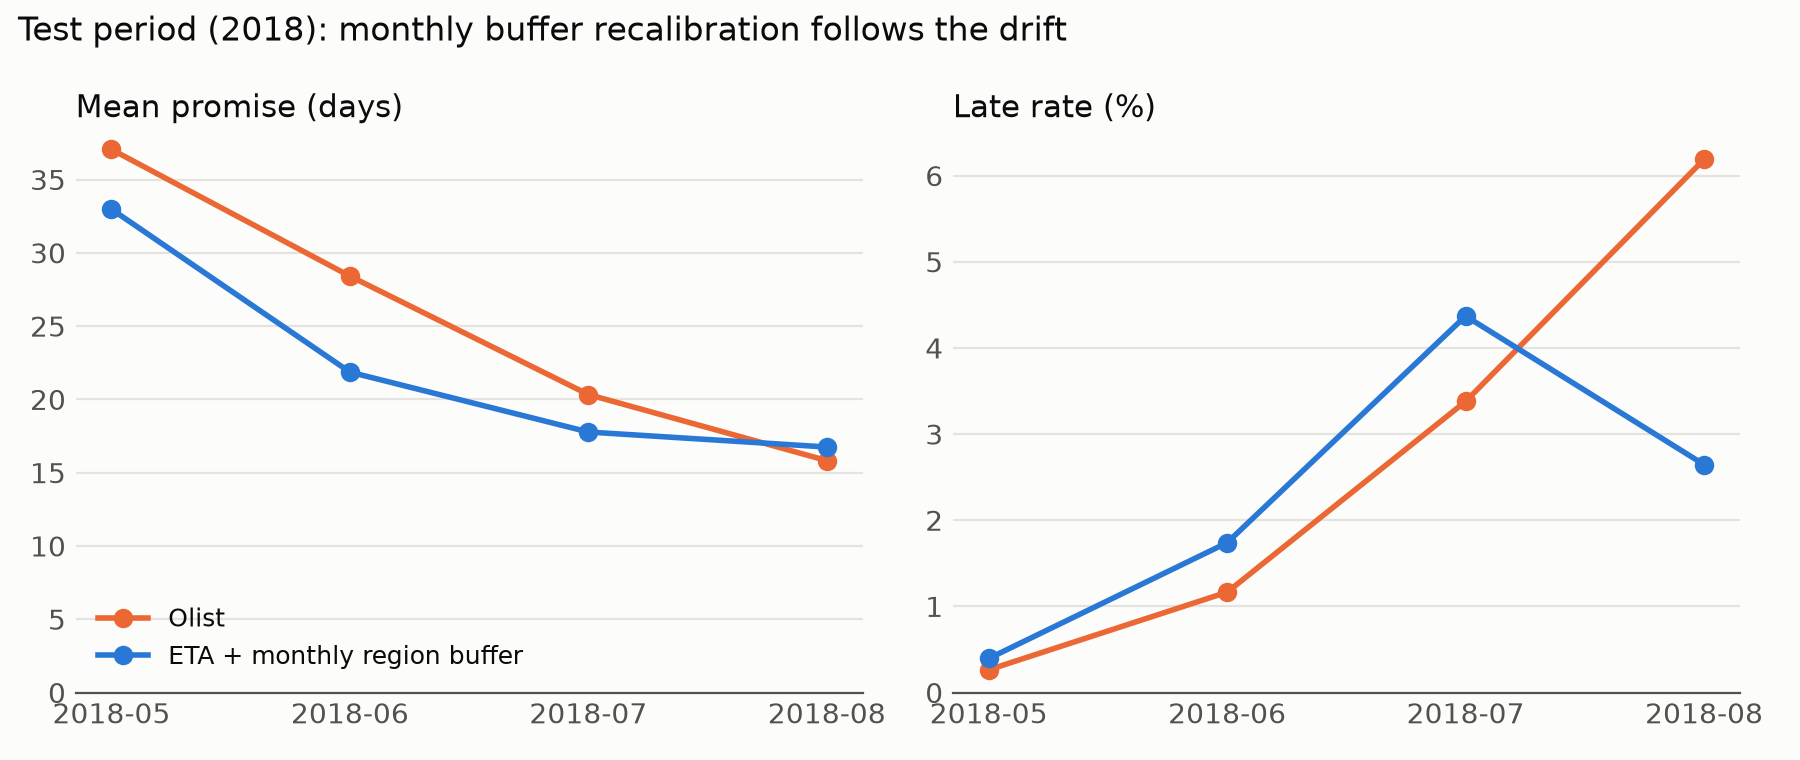
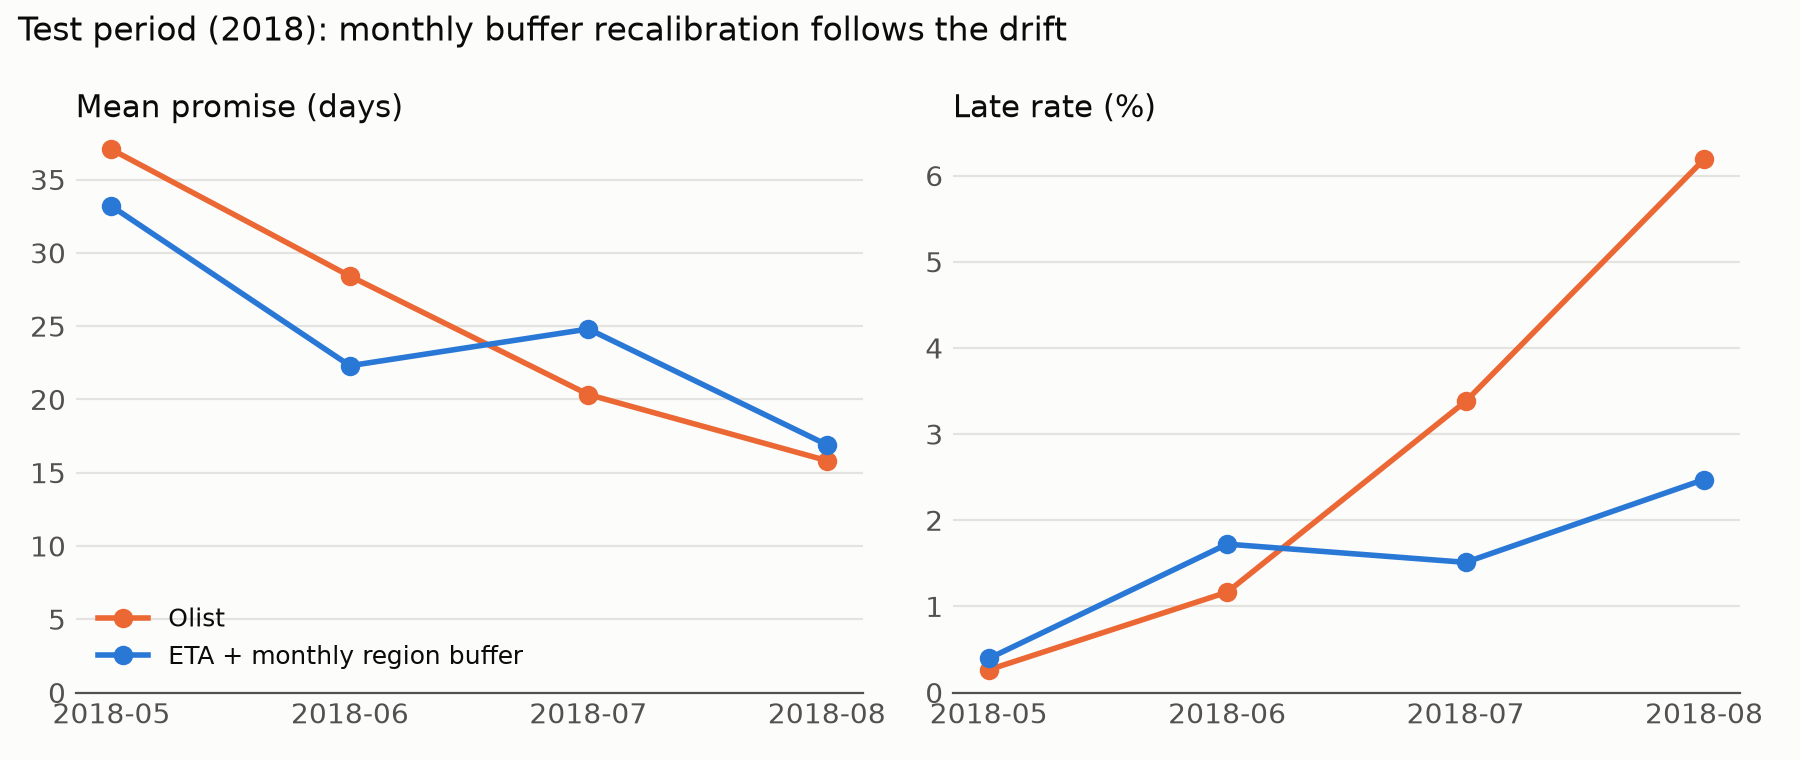
Fix checkout promise cohorts missing slow pre-cutoff orders; use alpha=100
Orders bought before the test cutoff but delivered after it (split
unavailable_at_cutoff) were left out of the monthly M-2 cohorts. About
1,900 slow May orders were missing from July's cohort, so July's buffer
was 4.1 days instead of 11.2 and promises came out too short.

With the fix, a 3.5% target gives 21.8 days and 1.8% late on test (Olist
22.1 days, 3.5%). Read off the target sweep, the policy reaches Olist's
late rate at 18.6 days, or half Olist's late rate at Olist's length.
Threshold rules are now compared with replace-all at the same late rate.
The experiment uses the selected Phase 2 ridge alpha=100.

diff --git a/src/experiments/checkout_promise/run.py b/src/experiments/checkout_promise/run.py
@@ -1,7 +1,7 @@
 """Checkout ETA -> promised date: what the checkout regression is worth as a promise-setting tool.
 
 Run from the repository root with ``python src/experiments/checkout_promise/run.py``.
-The ETA is the ridge (alpha=1000) checkout model without promised_days and promise_slack, so the promise it
+The ETA is the ridge (alpha=100) checkout model, the selected Phase 2 setting, without promised_days and promise_slack, so the promise it
 produces does not reuse Olist's promise. A promise is ceil(ETA + buffer), where the buffer is a quantile of
 recent residuals (actual calendar days - ETA). Outputs go to data/outputs/experiments/checkout_promise/.
 
@@ -26,7 +26,7 @@ from olist.paths import EXPERIMENT_OUTPUTS, RAW_DIR, REPO_ROOT  # noqa: E402
 from olist.regression import make_regression_pipeline  # noqa: E402
 
 HERE = EXPERIMENT_OUTPUTS / "checkout_promise"
-ALPHA = 1000.0
+ALPHA = 100.0
 PROMISE_FEATURES = ("promised_days", "promise_slack")
 MIN_GROUP = 100           # monthly cohort orders a group needs for its own quantile
 REGION = {**{s: "N" for s in "AC AP AM PA RO RR TO".split()},
@@ -88,8 +88,12 @@ def predict_all(t, spec):
     val = val[val.window.ge(0)]
     # Orders purchased after the last validation window and before the test cutoff: fitted only on outcomes
     # known when the gap starts, so the monthly cohorts that straddle it carry honest residuals.
+    # Orders bought before the test cutoff but delivered after it are outside the primary training split, yet
+    # many were delivered before a later month starts. They are the slow ones, so leaving them out of the
+    # monthly cohorts would shrink those buffers (about 1,900 May orders for July's buffer).
     gap_start = val.order_purchase_timestamp.max()
-    gap = train[train.order_purchase_timestamp > gap_start].copy()
+    late_outcome = t[t.split.eq("unavailable_at_cutoff")]
+    gap = pd.concat([train[train.order_purchase_timestamp > gap_start], late_outcome], ignore_index=True)
     known = train[train.outcome_available_at < gap_start]
     gap["eta"] = ridge(spec, noprom).fit(known[noprom], known[y]).predict(gap[noprom])
     test = t[t.split.eq("test")].copy()
@@ -383,7 +387,7 @@ def drift_gauge(d):
 
 
 def handover_gauge(spec):
-    """Evidence 6: checkout vs handover residuals on the handover cohort (both ridge alpha=1000)."""
+    """Evidence 6: checkout vs handover residuals on the handover cohort (both ridge alpha=100)."""
     from olist.eta import TARGET, chronological_folds, fit_predict, load_stage_table, stage_spec
     table, s, _ = load_stage_table(REPO_ROOT)
     s.setdefault("random_state", 42)
@@ -421,11 +425,15 @@ def replace_vs_threshold(d, target=0.035):
              "min(Olist, ours)": diff < 0, "max(Olist, ours)": diff > 0,
              "Lengthen all, shorten only if >=5 days shorter": (diff > 0) | (diff <= -5),
              "Lengthen all, shorten only if >=10 days shorter": (diff > 0) | (diff <= -10)}
+    # A rule is only worse if replacing every promise, with the target moved, is shorter at the same late rate.
+    curve = frontier(d, "test", TEST_MONTHS, targets=np.r_[0.005:0.15:0.0025])
     rows = []
     for name, use in rules.items():
         N = ol.where(~use, ours)
-        rows.append({"policy": name, "mean_promise": N.mean(), "late_rate": (a > N).mean(),
-                     "orders_changed": (N != ol).mean()})
+        late = (a > N).mean()
+        rows.append({"policy": name, "mean_promise": N.mean(), "late_rate": late,
+                     "orders_changed": (N != ol).mean(),
+                     "replace_all_promise_at_same_late": length_at(curve, late)})
     bins = pd.cut(diff, [-100, -10, -5, -1, 0, 4, 7, 100],
                   labels=["<=-10", "-9..-5", "-4..-1", "0", "+1..+4", "+5..+7", ">+7"])
     by_diff = pd.DataFrame({"diff": bins, "olist_late": a > ol, "ours_late": a > ours}).groupby(
@@ -630,8 +638,16 @@ def main():
     print("policy comparisons done", flush=True)
 
     final = overall.set_index("policy")
-    summary["headline_test"] = {"olist": final.loc["Olist"].to_dict(),
-                                "region_3.5pct": final.loc["Monthly, region buffer (3.5% target)"].to_dict()}
+    olist = final.loc["Olist"]
+    curve = frontier(d, "test", TEST_MONTHS, targets=np.r_[0.005:0.15:0.0025])
+    by_length = curve.sort_values("mean_promise")
+    summary["headline_test"] = {"olist": olist.to_dict(),
+                                "region_3.5pct": final.loc["Monthly, region buffer (3.5% target)"].to_dict(),
+                                # Read off the target sweep after the fact: what the policy can reach.
+                                "promise_at_olist_late_rate": length_at(curve, olist.late_rate),
+                                "late_rate_at_olist_promise": float(np.interp(olist.mean_promise, by_length.mean_promise,
+                                                                              by_length.late_rate)),
+                                "promise_at_2.8pct_late": length_at(curve, 0.028)}
     (HERE / "summary.json").write_text(json.dumps(summary, indent=2, default=float))
     figures(buffers, by_month)
     print(json.dumps(summary["headline_test"], indent=2, default=float))

diff --git a/src/experiments/checkout_promise/test_outputs.py b/src/experiments/checkout_promise/test_outputs.py
@@ -17,24 +17,32 @@ def main():
     head = summary["headline_test"]
     close(head["olist"]["mean_promise"], 22.05, 0.05)
     close(head["olist"]["late_rate"], 0.035, 0.001)
-    close(head["region_3.5pct"]["mean_promise"], 19.3, 0.1)
-    close(head["region_3.5pct"]["late_rate"], 0.028, 0.002)
+    # Includes the slow orders delivered after the cutoff in the monthly cohorts (July's buffer depends on them).
+    close(head["region_3.5pct"]["mean_promise"], 21.75, 0.1)
+    close(head["region_3.5pct"]["late_rate"], 0.0185, 0.002)
+    close(head["promise_at_olist_late_rate"], 18.55, 0.1)
+    close(head["late_rate_at_olist_promise"], 0.0175, 0.002)
+    close(head["promise_at_2.8pct_late"], 19.53, 0.1)
     # The recommended policy is shorter and less late than Olist on test.
     assert head["region_3.5pct"]["mean_promise"] < head["olist"]["mean_promise"]
     assert head["region_3.5pct"]["late_rate"] < head["olist"]["late_rate"]
 
     state = pd.read_csv(HERE / "accuracy_and_state.csv").set_index("split")
-    close(state.loc["val", "mae_ridge_no_promise"], 5.78, 0.02)
-    close(state.loc["val", "mae_ridge_full"], 5.76, 0.02)
+    close(state.loc["val", "mae_ridge_no_promise"], 5.83, 0.02)
+    close(state.loc["val", "mae_ridge_full"], 5.81, 0.02)
 
     months = pd.read_csv(HERE / "monthly_recalibration_by_month.csv")
     recal = months[months.policy.str.startswith("Monthly")]
     assert (recal.cohort_orders >= 100).all()
+    # July's cohort (May purchases) must include the slow orders delivered between the cutoff and 1 July.
+    assert (recal[recal.month.eq("2018-07")].cohort_orders > 6500).all()
 
     rules = pd.read_csv(HERE / "replace_vs_threshold.csv").set_index("policy")
     best = rules.loc["Replace all"]
     threshold = rules[rules.index.str.startswith("Ours only if it differs")]
     assert (threshold.late_rate > best.late_rate).all()
+    # At the same late rate, replacing every promise (target moved) is shorter than any threshold rule.
+    assert (threshold.mean_promise > threshold.replace_all_promise_at_same_late).all()
 
     seasonal = summary["seasonal_validation"]
     close(seasonal["region_promise_at_olist_late"], seasonal["olist_promise"], 0.5)

diff --git a/src/experiments/README.md b/src/experiments/README.md
@@ -9,7 +9,7 @@ Run these from the repository root after the main model scripts. Outputs are inc
 | `python src/experiments/backlog_feature/run.py` | Buyer-state backlog validation ablation, saved in `data/outputs/experiments/backlog_feature/`. |
 | `python src/experiments/unregularized_logistic_audit.py` | Plain logistic family baseline. |
 | `python src/experiments/monthly_retraining/run.py` | Monthly classifier refit versus frozen fit and remaining-slack rule, saved in `data/outputs/experiments/monthly_retraining/`. `test_outputs.py` checks the saved outputs. |
-| `python src/experiments/checkout_promise/run.py` | Phase 3: checkout ETA (ridge alpha=1000, no promise inputs) plus a monthly recalibrated buffer per customer region as the promised date, with the regional buffer diagnosis, retraining versus recalibration, the checkout gap signal, the drift gauge, threshold rules, grouping factors, the seasonal check and no-model benchmarks. Saved in `data/outputs/experiments/checkout_promise/` with two slide figures; `test_outputs.py` checks the headline numbers. Takes a few minutes. |
+| `python src/experiments/checkout_promise/run.py` | Phase 3: checkout ETA (ridge alpha=100, no promise inputs) plus a monthly recalibrated buffer per customer region as the promised date, with the regional buffer diagnosis, retraining versus recalibration, the checkout gap signal, the drift gauge, threshold rules, grouping factors, the seasonal check and no-model benchmarks. Saved in `data/outputs/experiments/checkout_promise/` with two slide figures; `test_outputs.py` checks the headline numbers. Takes a few minutes. |
 
 The point-in-time `asof_mean` helper used by `src/olist/eta.py` lives in `src/olist/features.py` and is tested by `tests/test_phase2_recent_history_audit.py`. `recent_history_audit.py` keeps the standalone historical comparison, which also reads the included `data/outputs/phase2/regression/` prediction files; those older checkout outputs are inputs to that diagnostic, not the final regression metrics. The final regression comparison is in `data/outputs/phase2/eta/`.
 
